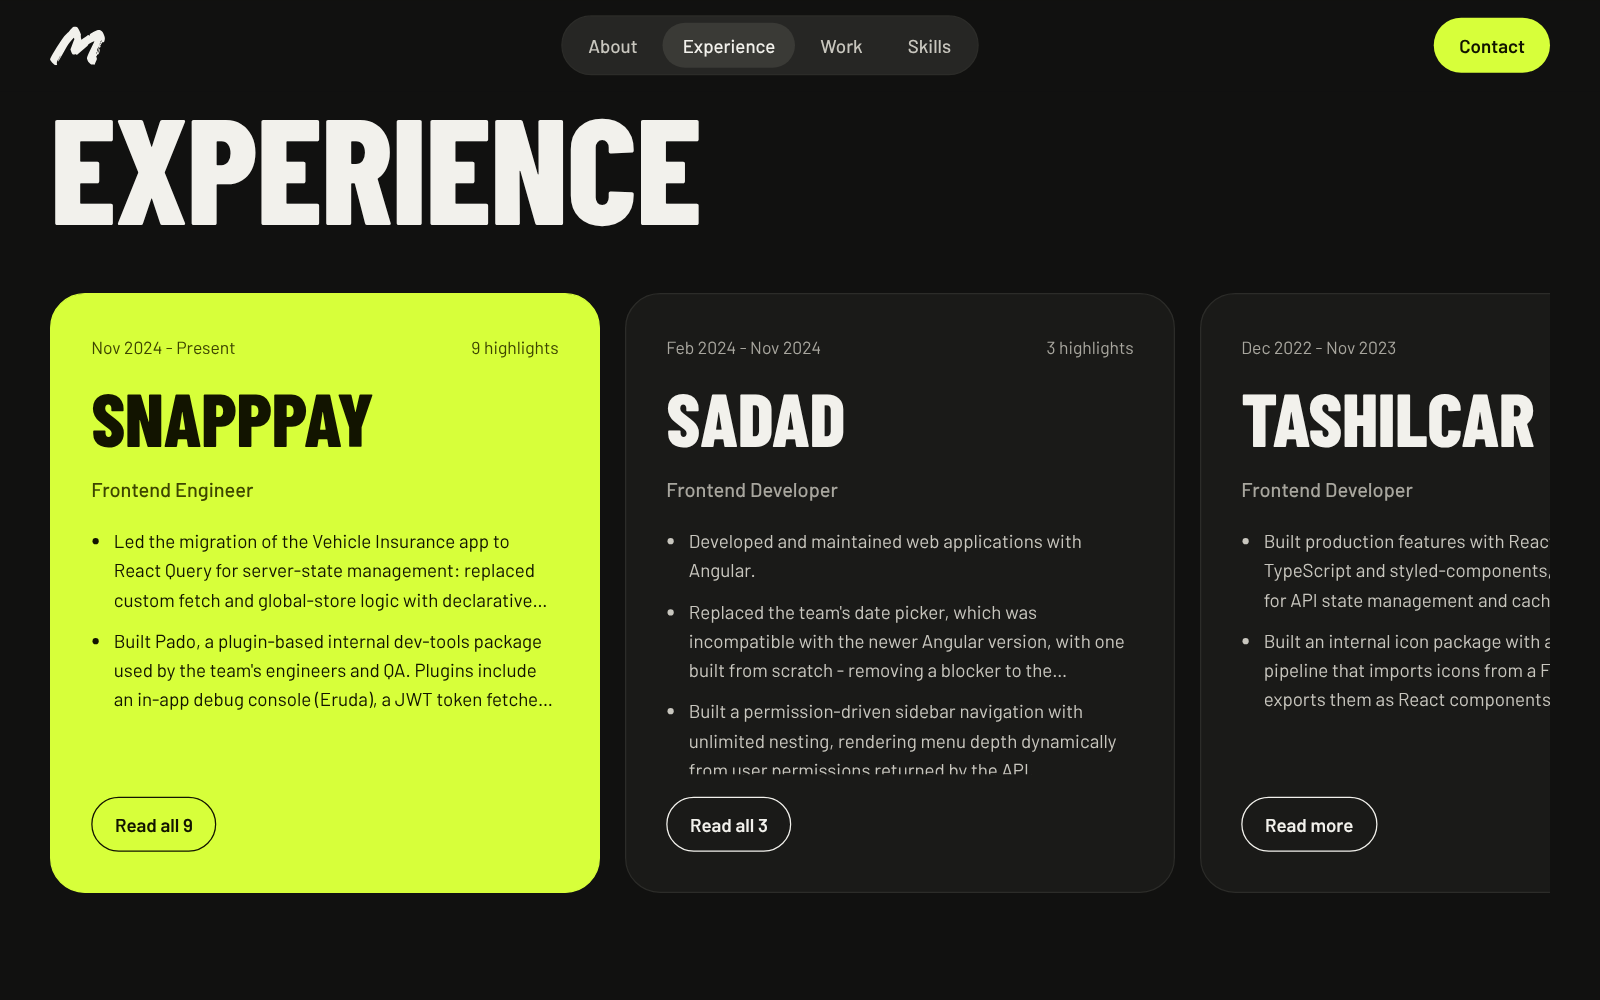
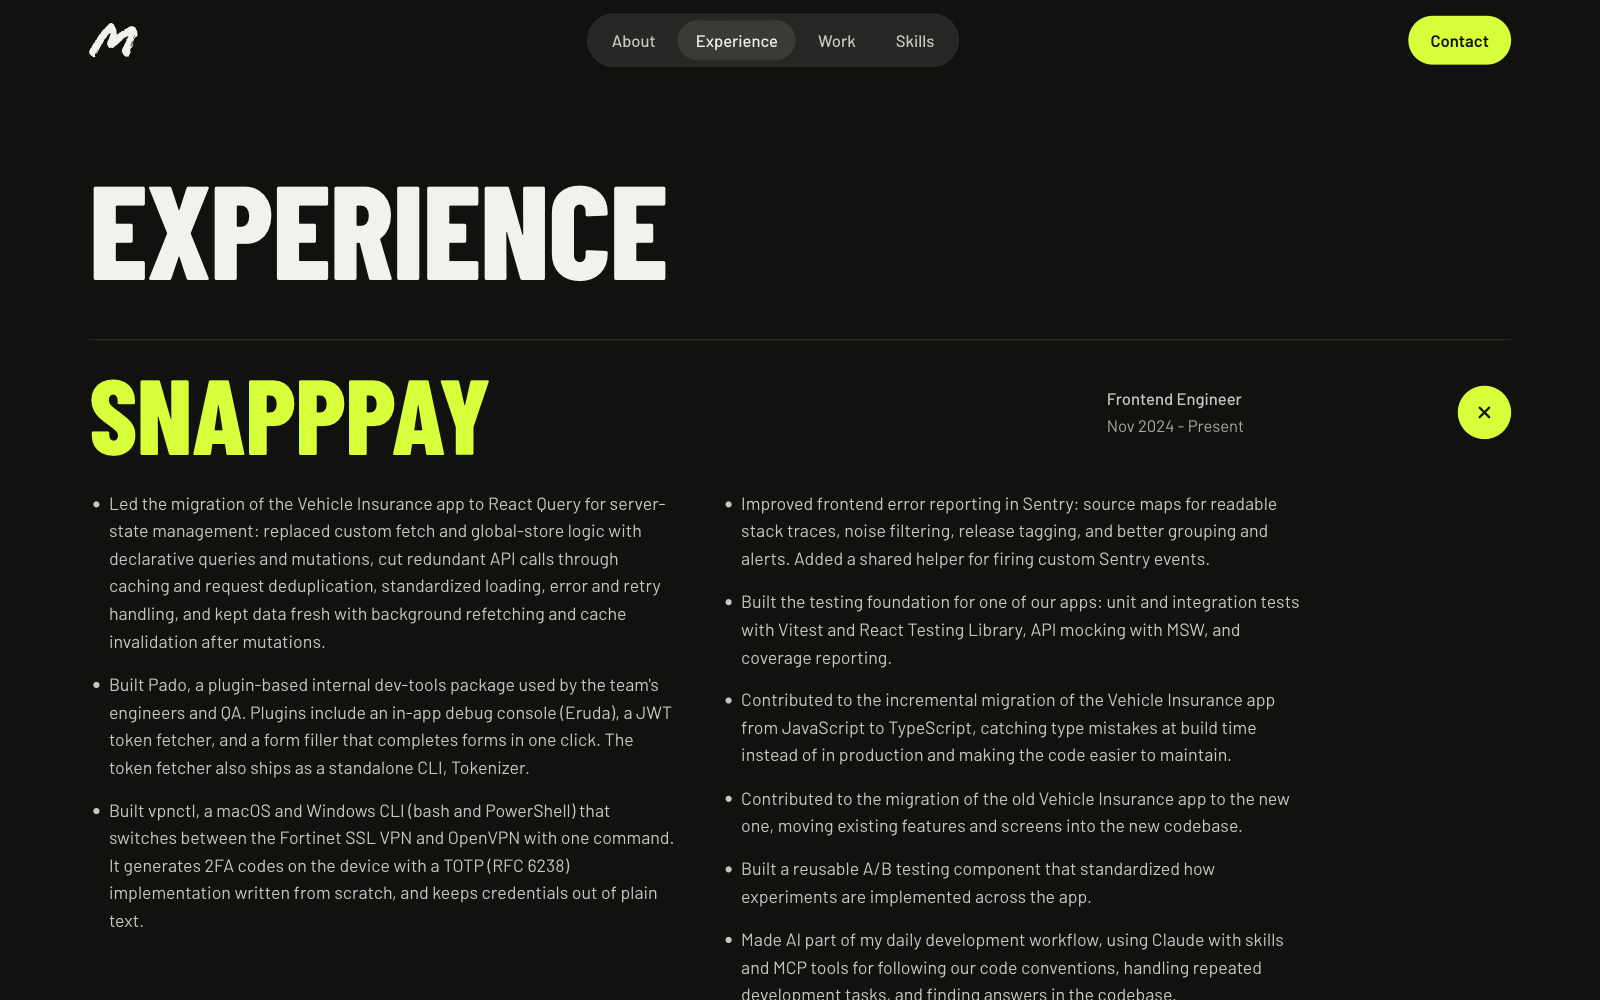
content: update the portfolio case study for the new experience list

diff --git a/src/data/index.tsx b/src/data/index.tsx
@@ -356,7 +356,7 @@ const allProjects: Project[] = [
         items: [
           "The letters of the name drop in, then the name shrinks and fades as the page scrolls.",
           "The About text lights up line by line as it scrolls into view.",
-          "On desktop the Experience row pins and pans sideways. On phones it's a swipeable row with a small slider.",
+          "Experience opens one job at a time, and the row you click stays where it is while the one above it closes.",
           "Work panels stack on top of each other, each sinking back as the next one covers it.",
           "Opening a case study slides the page and morphs the project's screenshot and title into place.",
         ],
@@ -374,7 +374,7 @@ const allProjects: Project[] = [
         title: "Accessibility",
         items: [
           "Every animation turns off when the system's reduced-motion setting is on, and the page still looks finished.",
-          "Dialogs use the native dialog element, which traps focus and closes on Escape.",
+          "The mobile menu is a native dialog, which traps focus and closes on Escape. Experience rows are native details elements, usable by keyboard.",
           "Text split up for animation keeps a readable copy for screen readers.",
           "Contrast tuned even for the dimmed About words, and visible focus styles.",
         ],
@@ -383,8 +383,8 @@ const allProjects: Project[] = [
     gallery: [
       {
         src: "/work/portfolio/experience.png",
-        alt: "The Experience section: job cards in a row, the current job in the accent color",
-        caption: "The Experience row pins on desktop and pans sideways as you scroll.",
+        alt: "The Experience section: company names as large rows, the current job open with its highlights in two columns",
+        caption: "Experience lists each job as a big headline, with the current one open.",
       },
       {
         src: "/work/portfolio/work.png",
@@ -409,8 +409,8 @@ const allProjects: Project[] = [
       },
       {
         src: "/work/portfolio/phone-experience.png",
-        alt: "The Experience section on a phone, a swipeable row of cards with a slider",
-        caption: "On phones, Experience is a swipeable row.",
+        alt: "The Experience section on a phone: company names stacked, with SADAD open showing its highlights",
+        caption: "On phones, the same list, one job open at a time.",
         phone: true,
       },
       {
@@ -427,7 +427,7 @@ const allProjects: Project[] = [
       },
     ],
     decisions: [
-      "Server Components by default. Only the mobile menu and the experience dialog ship client-side JavaScript.",
+      "Server Components by default. Only the mobile menu and a small helper that keeps an Experience row in place ship client-side JavaScript.",
       "All the text lives in one data file, so a copy change never touches a component.",
       "Scroll motion runs on CSS scroll-driven animations, with no animation library. It animates only transform and opacity, after phones dropped frames on anything else.",
       "Page changes use React's ViewTransition. Only the screen-sized root is animated, never the whole ~7,800px page, which stuttered on iPhones.",
